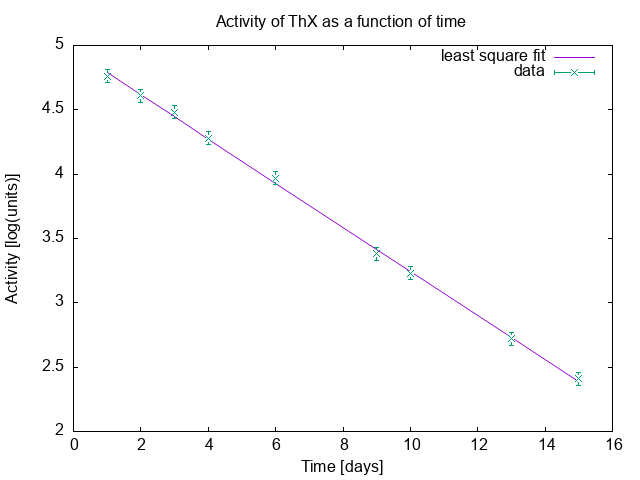
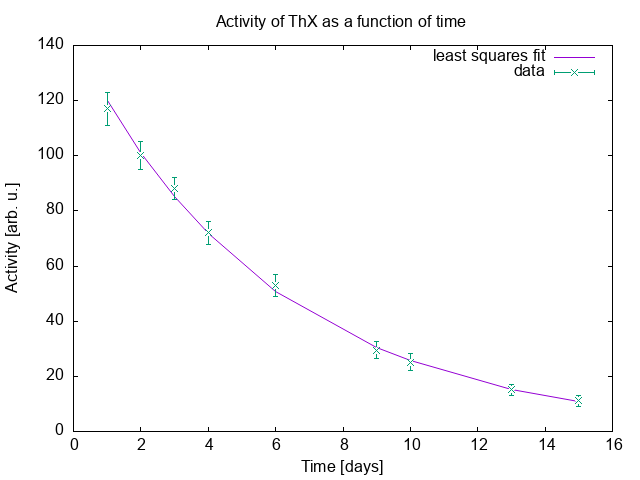
-

diff --git a/homeworks/least-squares/C/main.cs b/homeworks/least-squares/C/main.cs
@@ -10,38 +10,38 @@ public static int Main(){
     vector dy = new vector(y.size); // error of activity
     vector lny = new vector(y.size); // log of activity
     vector dlny = new vector(y.size); // error of log(y)
-
-
     for(int i=0 ; i<y.size ; i++){
         dy[i] = y[i] * 0.05; // assuming errors of 5%
         lny[i] = Math.Log(y[i]); // calculating ln(y)
         dlny[i] = dy[i] / y[i];
     }
-
-    x.print("Time [days]:                  ");
-    y.print("Activity of ThX [rel. u.]:    ");
-    dy.print("Error of the activity (5%):   ");
-    lny.print("Log(y):                       ");
-    dlny.print("Error of log(y):              ");
-
     Func<double,double>[] decay_func = new Func<double,double> [] {z => 1, z => -z};
-
     var (coeffs, cov_mat) = lslib.lsfit(decay_func, x, lny, dlny);
-
-    coeffs.print("\nFitting parameters (a,b):\n");
-    //cov_mat.print("Covariance matrix:\n");
-
-    WriteLine($"\nHalf-Life of ThX: ln(2)/b = {Round(Log(2)/coeffs[1],3)} days.");
-    WriteLine("Table value (modern): 3.6 days");
+    vector fit_err = new vector(cov_mat.size1);
+    for(int i=0 ; i<cov_mat.size1 ; i++){
+        fit_err[i] = Sqrt(cov_mat[i,i]);
+    }
 
     WriteLine("\n Fitting parameter values (for plotting):\n\n");
+
     vector y_fit = new vector(y.size);
+    vector y_plus = new vector(y.size);
+    vector y_minus = new vector(y.size);
+
     for(int j=0 ; j<y.size ; j++){
         y_fit[j] = Exp(coeffs[0] - coeffs[1]*x[j]);
         WriteLine($"{x[j]}  {y_fit[j]}");
     }
-
+    WriteLine("\n\n\n");
+    for(int j=0 ; j<y.size ; j++){
+        y_plus[j] = Exp((coeffs[0]+fit_err[0]) - (coeffs[1]+fit_err[1])*x[j]);
+        WriteLine($"{x[j]}  {y_plus[j]}");
+    }
+    WriteLine("\n\n\n");
+    for(int j=0 ; j<y.size ; j++){
+        y_minus[j] = Exp((coeffs[0]-fit_err[0]) - (coeffs[1]-fit_err[1])*x[j]);
+        WriteLine($"{x[j]}  {y_minus[j]}");
+    }
 return 0;
-}
-
+} // Main
 } // class main
